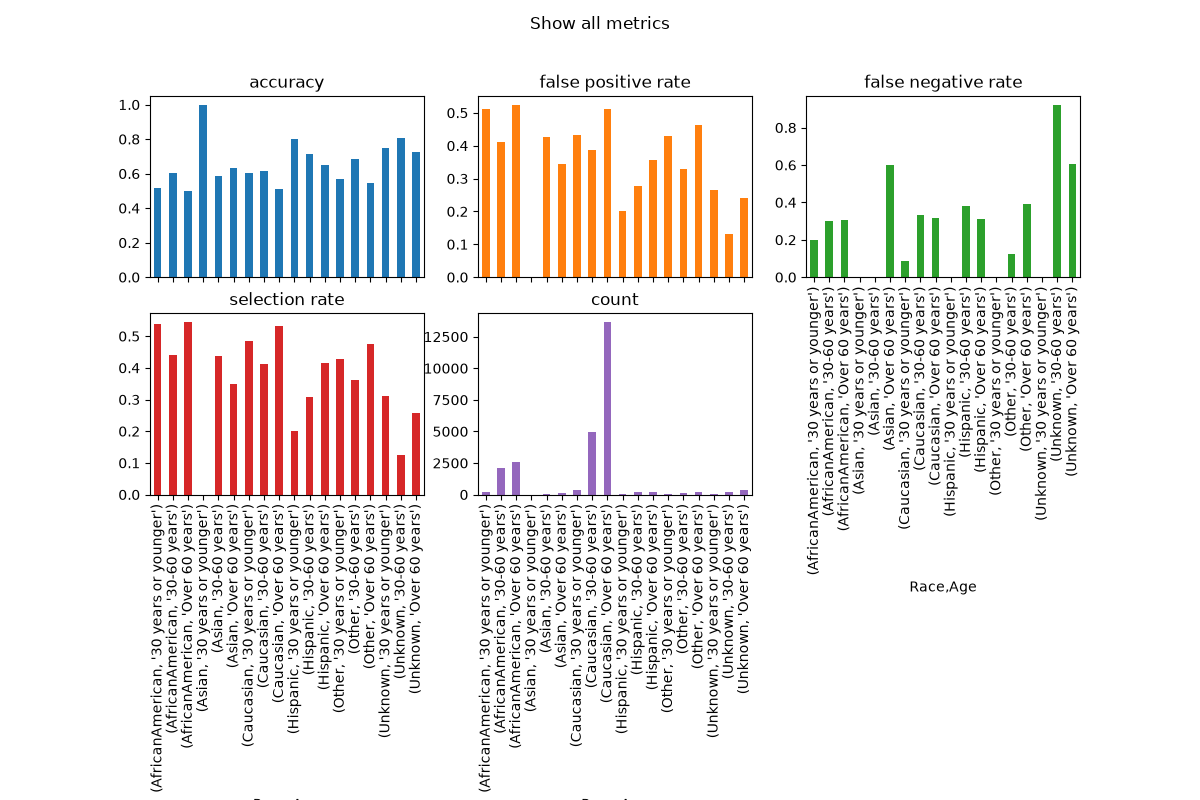
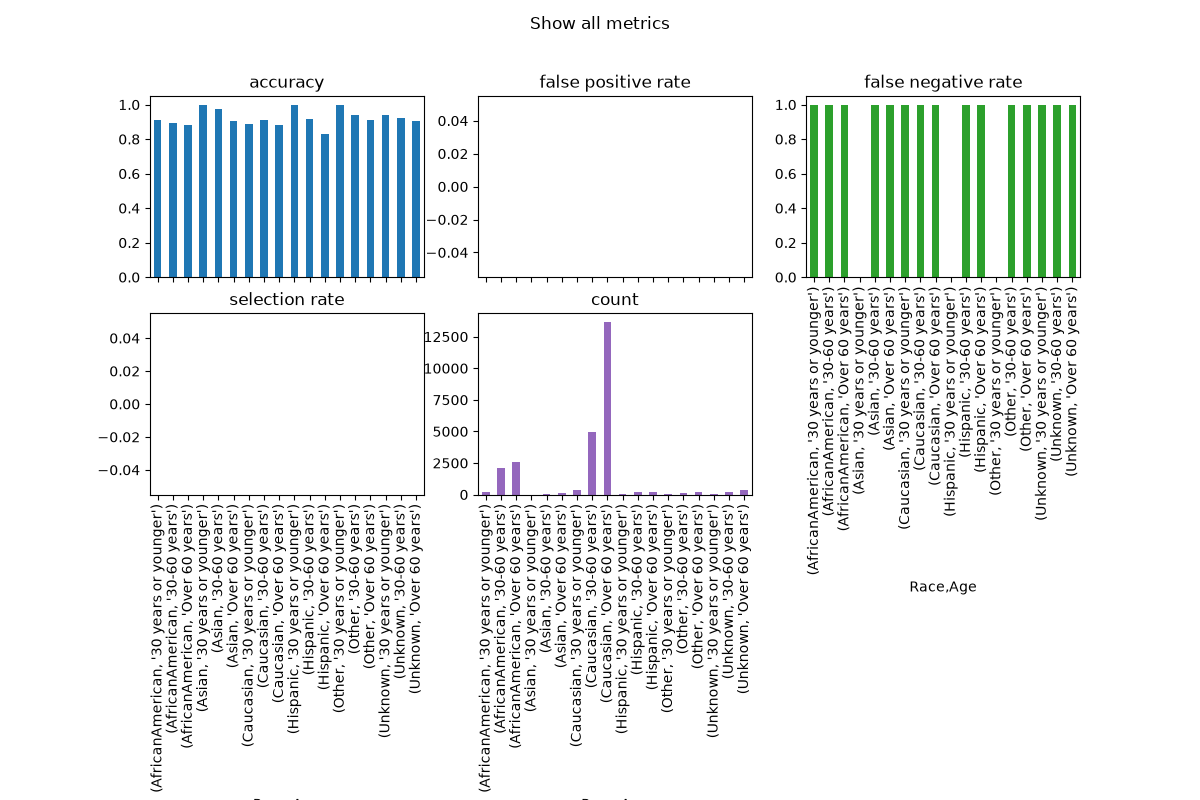
halfway changing stuff

Changed region(s): [[0.1233, 0.125, 0.8942, 0.3438], [0.0925, 0.4062, 0.37, 0.625]]

diff --git a/src/main.py b/src/main.py
@@ -1,4 +1,5 @@
 import fairlearn.metrics as fm
+import fairlearn.postprocessing as post
 import matplotlib.pyplot as plt
 import numpy as np
 import pandas as pd
@@ -12,7 +13,8 @@ from fairlearn.metrics import (
 )
 from sklearn.linear_model import LogisticRegression
 from sklearn.metrics import accuracy_score, balanced_accuracy_score
-from sklearn.model_selection import train_test_split
+from sklearn.model_selection import train_test_split, GroupShuffleSplit
+from sklearn.pipeline import Pipeline
 from sklearn.tree import DecisionTreeClassifier
 
 from fairness_eval import feature_analysis
@@ -47,28 +49,46 @@ def train_model(X_train, y_train):
 
 def evaluate_model(classifier, X_test, y_test, sensitive_data):
     # Make the test predictions and evaluate the model using the MetricFrame
-    y_pred = classifier.predict_proba(X_test)[:, 1] >= 0.1
+    # y_pred = classifier.predict_proba(X_test)[:, 1] >= 0.1
+    y_pred = classifier.predict(
+        X_test, sensitive_features=sensitive_data["Race"], random_state=SEED
+    )
     racemf = MetricFrame(
-        metrics=false_negative_rate,
+        metrics={
+            "balanced_accuracy": balanced_accuracy_score,
+            "false positive rate": false_positive_rate,
+            "false negative rate": false_negative_rate,
+            "selection rate": selection_rate,
+        },
         y_true=y_test,
         y_pred=y_pred,
         sensitive_features=sensitive_data["Race"],
     )
     agemf = MetricFrame(
-        metrics=false_negative_rate,
+        metrics={
+            "balanced_accuracy": balanced_accuracy_score,
+            "false positive rate": false_positive_rate,
+            "false negative rate": false_negative_rate,
+            "selection rate": selection_rate,
+        },
         y_true=y_test,
         y_pred=y_pred,
         sensitive_features=sensitive_data["Age"],
     )
     intersectionmf = MetricFrame(
-        metrics=false_negative_rate,
+        metrics={
+            "balanced_accuracy": balanced_accuracy_score,
+            "false positive rate": false_positive_rate,
+            "false negative rate": false_negative_rate,
+            "selection rate": selection_rate,
+        },
         y_true=y_test,
         y_pred=y_pred,
         sensitive_features=sensitive_data,
     )
     allmf = [racemf, agemf, intersectionmf]
     for mf in allmf:
-        mf.overall.item()
+        # mf.overall.item()
         print(mf.by_group)
 
     for sensitive in ["Race", "Age"]:
@@ -79,7 +99,7 @@ def evaluate_model(classifier, X_test, y_test, sensitive_data):
                 y_test, y_pred, sensitive_features=sensitive_data[sensitive]
             )
         )
-         
+
         print("equal opportunity diff")
 
         print(
@@ -116,6 +136,7 @@ def evaluate_model(classifier, X_test, y_test, sensitive_data):
 def main():
     # Load the diabetes hospital dataset and transform it
     data = fetch_diabetes_hospital(as_frame=True)
+    print(data.data.columns.tolist())
     race, age, X_ohe, y = transform_data(data)
 
     # Analyze and print/plot by race and age
@@ -123,16 +144,42 @@ def main():
     feature_analysis(age, y, "age")
 
     # Train test split
-    X_train, X_test, y_train, y_test, _, race_test, _, age_test = train_test_split(
-        X_ohe, y, race, age, random_state=SEED, stratify=y
-    )
+    # X_train, X_test, y_train, y_test, race_train, race_test, age_train, age_test = (
+    #     train_test_split(X_ohe, y, race, age, random_state=SEED, stratify=y)
+    # )
+
+    gss = GroupShuffleSplit(n_splits=1, test_size=0.2, random_state=SEED)
+
+    train_idx, test_idx = next(gss.split(X_ohe, y, groups = data["patient_nbr"]))
+
+    X_train, X_test = X_ohe.iloc[train_idx], X_ohe.iloc[test_idx]
+    y_train, y_test = y.iloc[train_idx], y.iloc[test_idx]
+    race_train, race_test = race.iloc[train_idx], race.iloc[test_idx]
+    age_train, age_test = age.iloc[train_idx], age.iloc[test_idx]
+
+
+
+
+
+
     # Train and Evaluate the model
     sensitive_data = pd.DataFrame(
         np.stack([race_test, age_test], axis=1), columns=["Race", "Age"]
     )
-    model = train_model(X_train, y_train)
+    # model = train_model(X_train, y_train)
+    model = LogisticRegression(max_iter=1000)
+    pipeline = Pipeline(steps=[("classifier", model)])
+
+    threshold_optimizer = post.ThresholdOptimizer(
+        estimator=pipeline,
+        constraints="false_negative_rate_parity",
+        objective="true_negative_rate",
+        predict_method="predict_proba",
+        prefit=False,
+    )
+    model = threshold_optimizer.fit(X_train, y_train, sensitive_features=race_train)
     evaluate_model(model, X_test, y_test, sensitive_data)
-    pass
+    post.plot_threshold_optimizer(threshold_optimizer)
 
 
 if __name__ == "__main__":

diff --git a/src/preprocessing.py b/src/preprocessing.py
@@ -1,0 +1,112 @@
+import pandas as pd
+from pathlib import Path
+import os
+
+data_path = Path(f"{os.getcwd()}/data")
+
+
+def main():
+    df = pd.read_csv(data_path / "diabetic_data.csv").rename(
+        columns={"diag_1": "primary_diagnosis"}
+    )
+    # Create Outcome variables
+    df.loc[:, "readmit_30_days"] = df["readmitted"] == "<30"
+    df.loc[:, "readmit_binary"] = df["readmitted"] != "NO"
+    # Replace missing values and re-code categories
+    df.loc[:, "age"] = df.age.replace({"?": ""})
+    df.loc[:, "payer_code"] = df["payer_code"].replace({"?", "Unknown"})
+    df.loc[:, "medical_specialty"] = df["medical_specialty"].replace({"?": "Missing"})
+    df.loc[:, "race"] = df["race"].replace({"?": "Unknown"})
+
+    df.loc[:, "admission_source_id"] = df["admission_source_id"].replace(
+        {1: "Referral", 2: "Referral", 3: "Referral", 7: "Emergency"}
+    )
+    df.loc[:, "age"] = df["age"].replace(
+        ["[0-10)", "[10-20)", "[20-30)"], "30 years or younger"
+    )
+    df.loc[:, "age"] = df["age"].replace(
+        ["[30-40)", "[40-50)", "[50-60)"], "30-60 years"
+    )
+    df.loc[:, "age"] = df["age"].replace(
+        ["[60-70)", "[70-80)", "[80-90)"], "Over 60 years"
+    )
+
+    # Clean various medical codes
+    df.loc[:, "discharge_disposition_id"] = df.discharge_disposition_id.apply(
+        lambda x: "Discharged to Home" if x == 1 else "Other"
+    )
+
+    df.loc[:, "admission_source_id"] = df["admission_source_id"].apply(
+        lambda x: x if x in ["Emergency", "Referral"] else "Other"
+    )
+    # Re-code Medical Specialties and Primary Diagnosis
+    specialties = [
+        "Missing",
+        "InternalMedicine",
+        "Emergency/Trauma",
+        "Family/GeneralPractice",
+        "Cardiology",
+        "Surgery",
+    ]
+    df.loc[:, "medical_specialty"] = df["medical_specialty"].apply(
+        lambda x: x if x in specialties else "Other"
+    )
+    #
+    df.loc[:, "primary_diagnosis"] = df["primary_diagnosis"].replace(
+        regex={
+            "[7][1-3][0-9]": "Musculoskeltal Issues",
+            "250.*": "Diabetes",
+            "[4][6-9][0-9]|[5][0-1][0-9]|786": "Respitory Issues",
+            "[5][8-9][0-9]|[6][0-2][0-9]|788": "Genitourinary Issues",
+        }
+    )
+    diagnoses = [
+        "Respitory Issues",
+        "Diabetes",
+        "Genitourinary Issues",
+        "Musculoskeltal Issues",
+    ]
+    df.loc[:, "primary_diagnosis"] = df["primary_diagnosis"].apply(
+        lambda x: x if x in diagnoses else "Other"
+    )
+
+    # Binarize and bin features
+    df.loc[:, "medicare"] = df.payer_code == "MC"
+    df.loc[:, "medicaid"] = df.payer_code == "MD"
+
+    df.loc[:, "had_emergency"] = df["number_emergency"] > 0
+    df.loc[:, "had_inpatient_days"] = df["number_inpatient"] > 0
+    df.loc[:, "had_outpatient_days"] = df["number_outpatient"] > 0
+
+    # Save DataFrame
+    cols_to_keep = [
+        "patient_nbr",
+        "race",
+        "gender",
+        "age",
+        "discharge_disposition_id",
+        "admission_source_id",
+        "time_in_hospital",
+        "medical_specialty",
+        "num_lab_procedures",
+        "num_procedures",
+        "num_medications",
+        "primary_diagnosis",
+        "number_diagnoses",
+        "max_glu_serum",
+        "A1Cresult",
+        "insulin",
+        "change",
+        "diabetesMed",
+        "medicare",
+        "medicaid",
+        "had_emergency",
+        "had_inpatient_days",
+        "had_outpatient_days",
+        "readmitted",
+        "readmit_binary",
+        "readmit_30_days",
+    ]
+
+    final_df = df.loc[:, cols_to_keep]
+    final_df.to_csv(data_path / "diabetic_preprocessed.csv", index=False)
